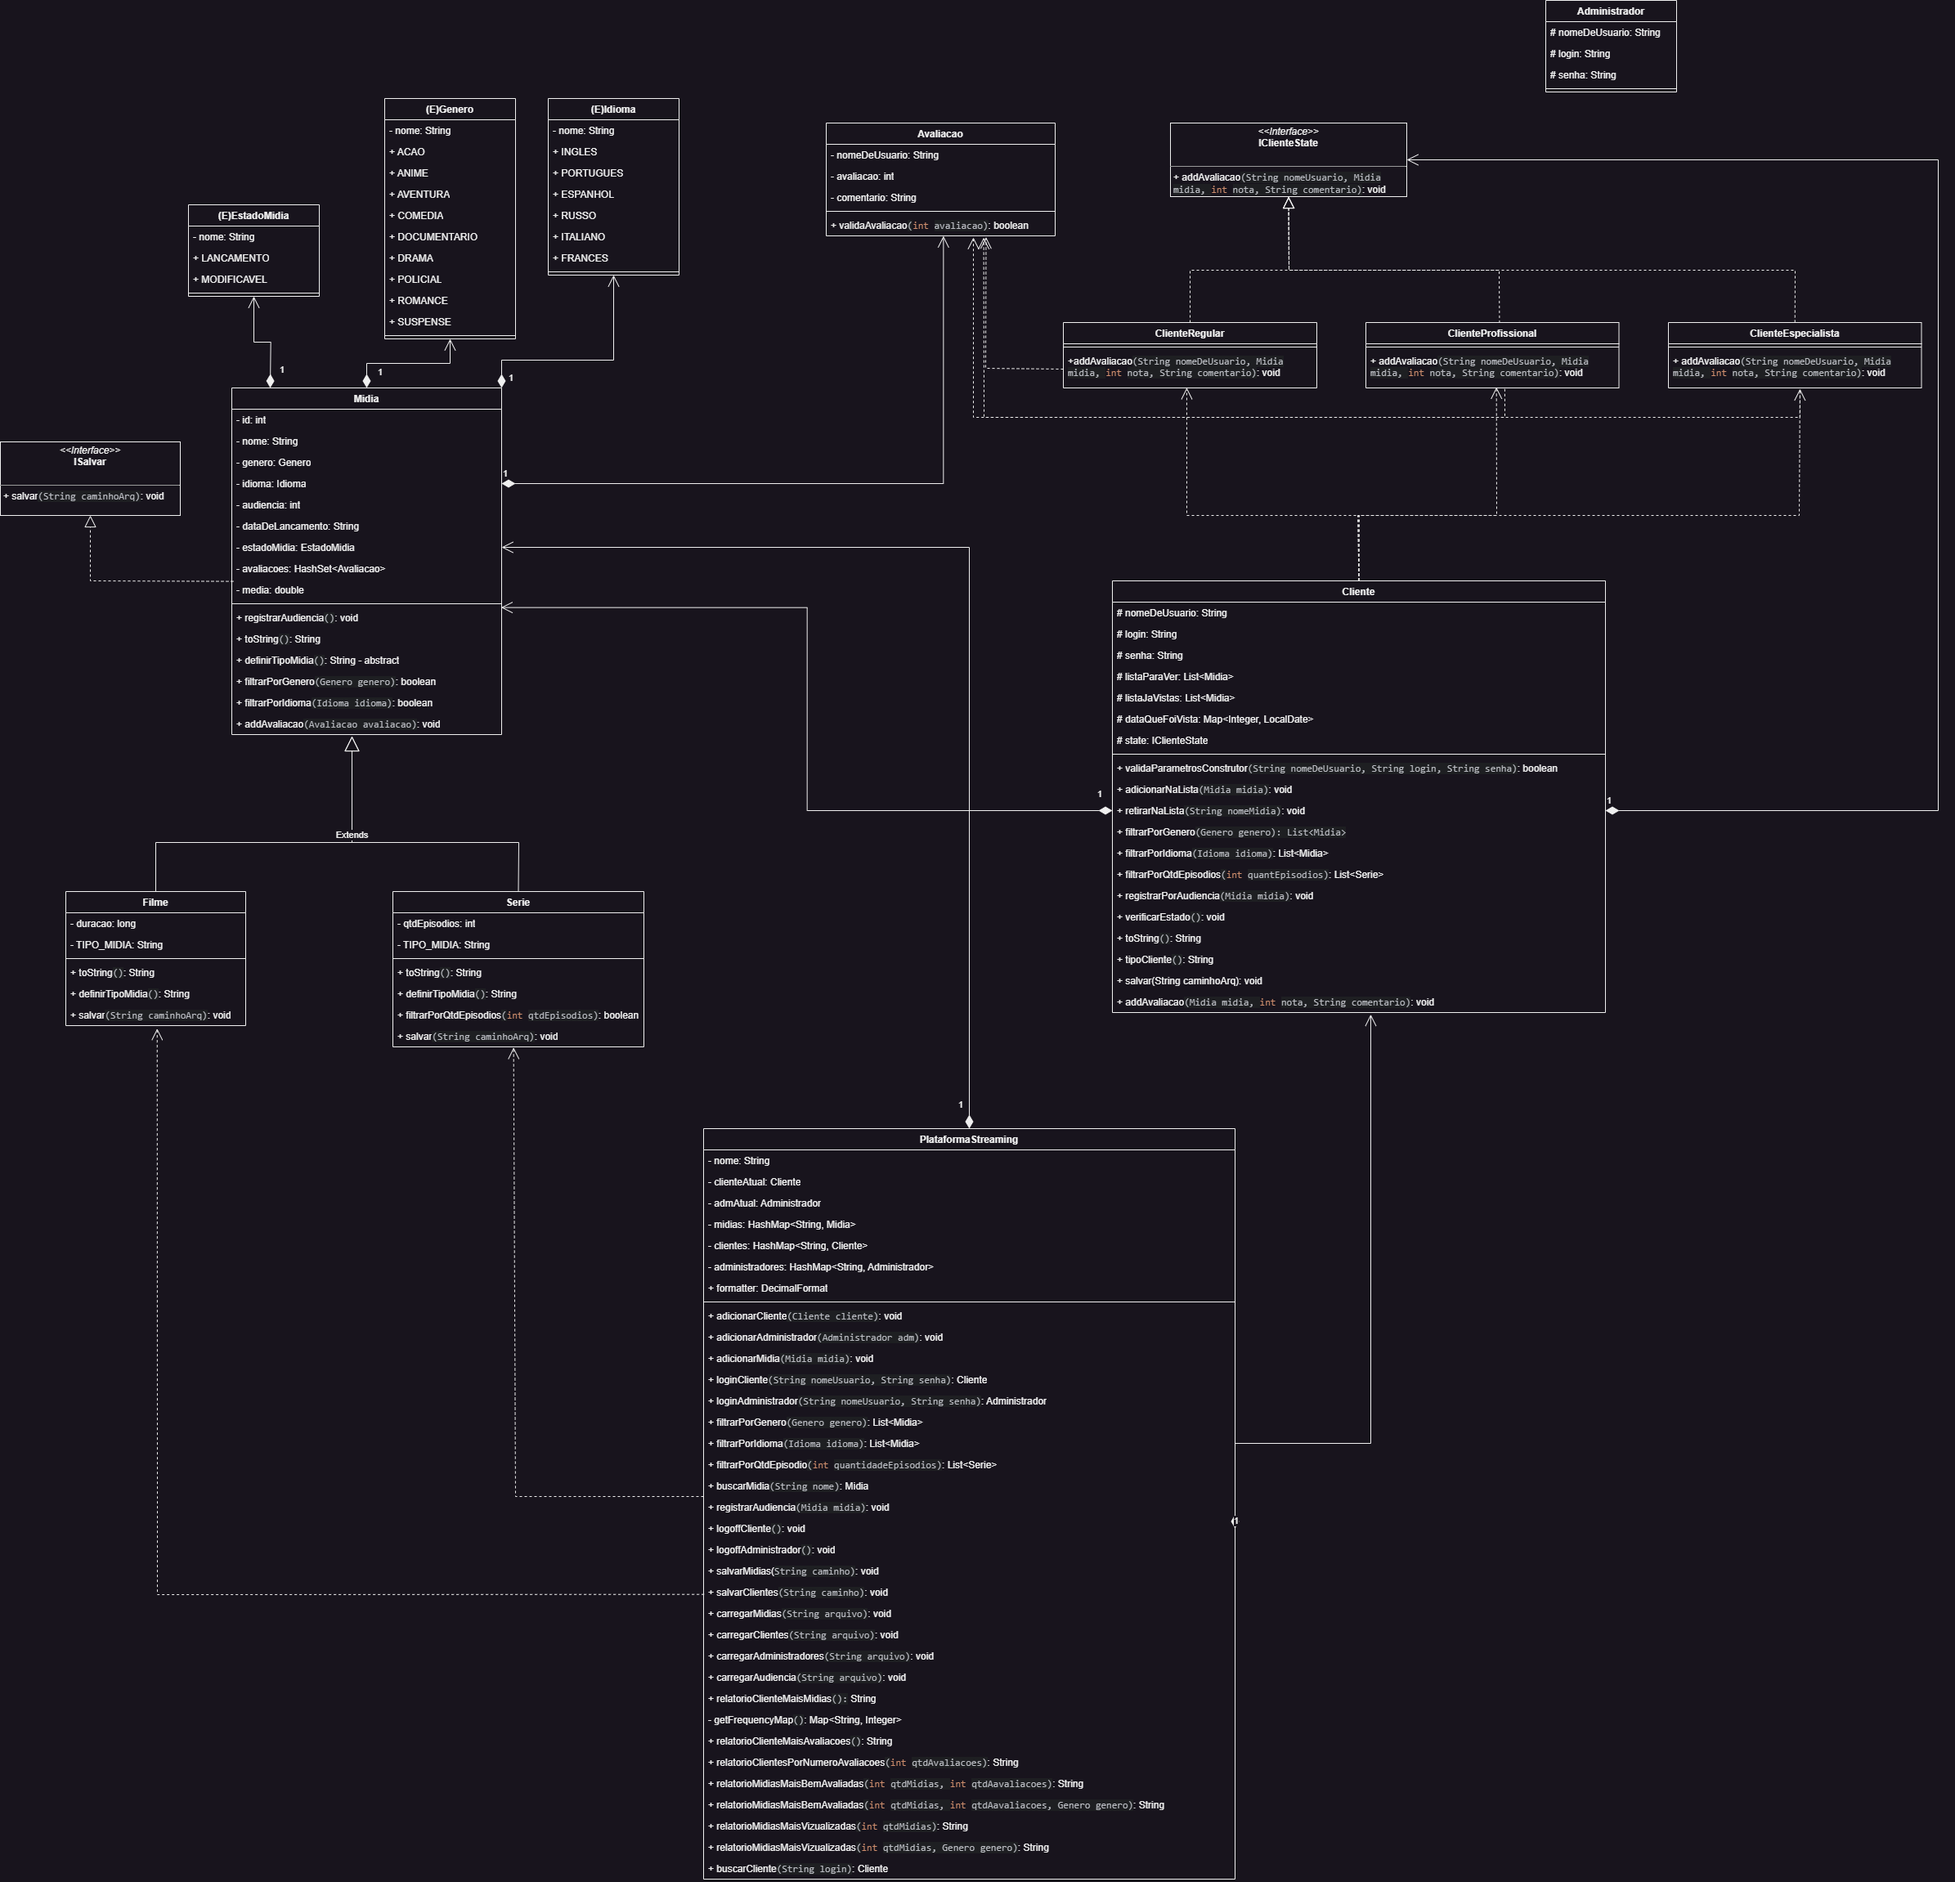
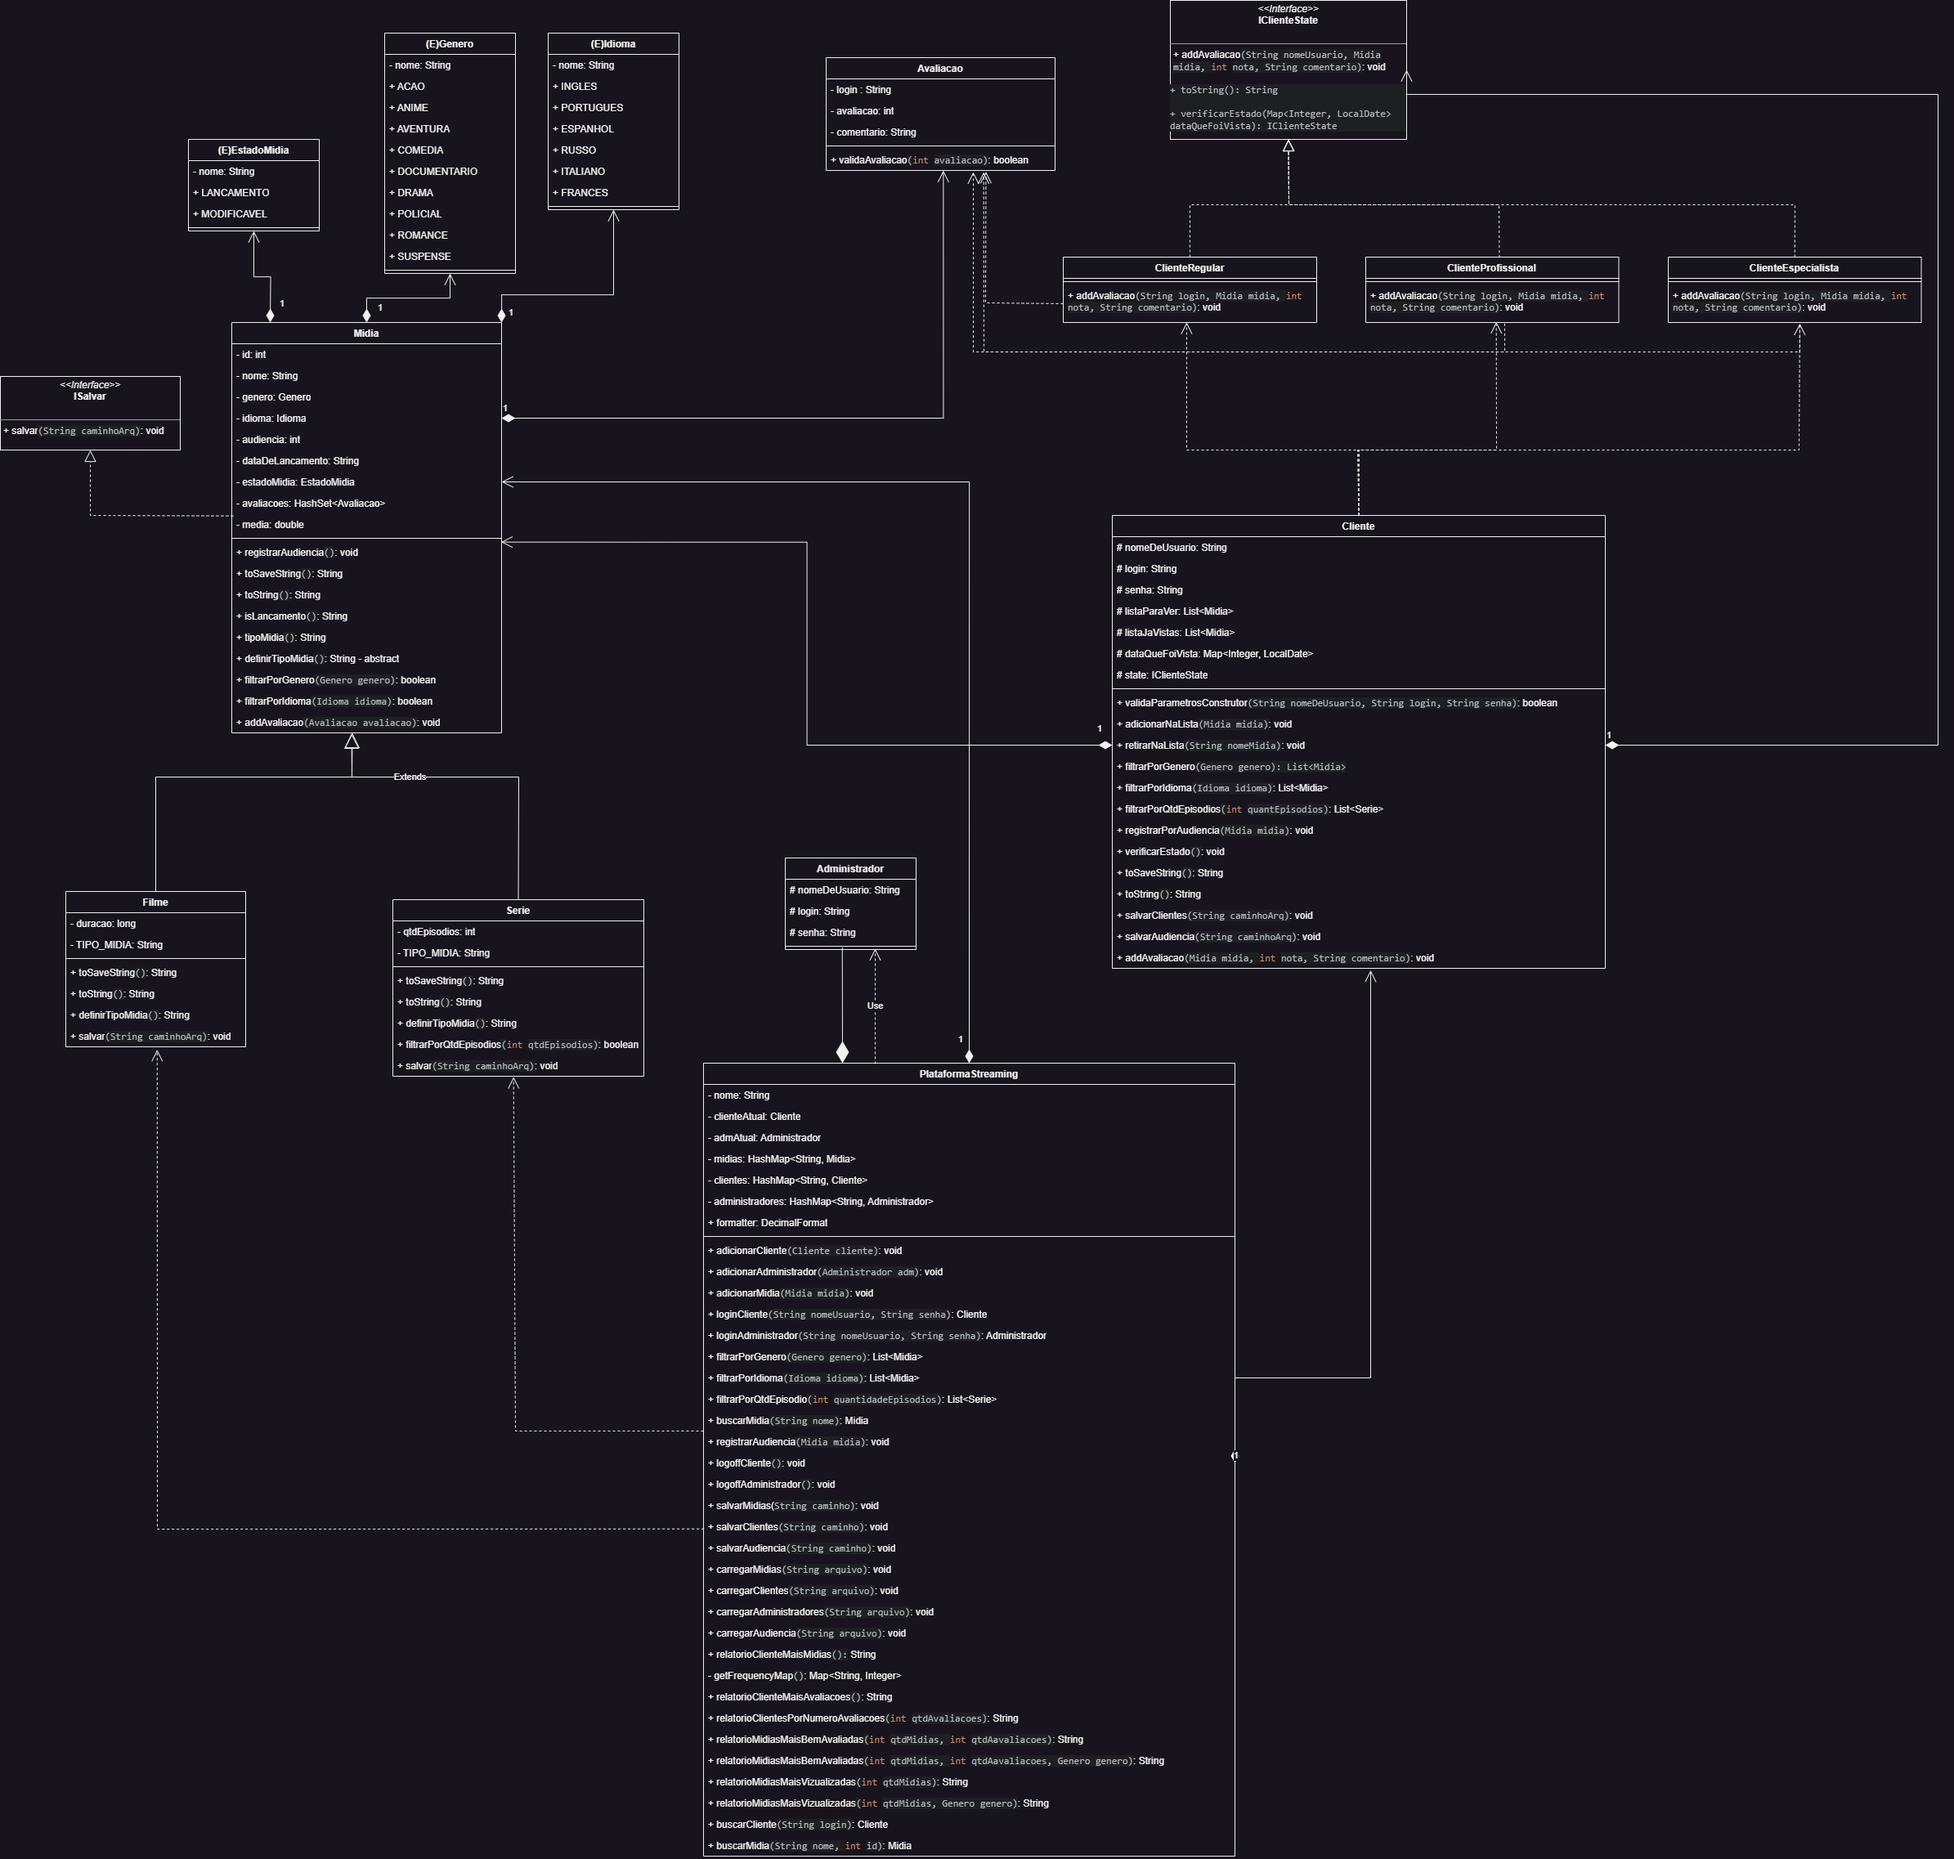
retorno cliente estados a forma anterior.

diff --git a/codigo/app/Cliente.java b/codigo/app/Cliente.java
@@ -113,6 +113,24 @@ public class Cliente {
         }
         return listaFiltrada;
     }
+    /**
+     * Verifica se é um cliente especialista
+     * Caso tenha assistido 5 ou mais midias mes passado, retornara true
+     * sempre verifica o estado do cliente caso tenha se tornado especialista.
+     */
+    public void verificarEstado() {
+        // Pega a data atual e subtrai um mês para obter a data de um mês atrás
+        LocalDate umMesAtras = LocalDate.now().minusMonths(1);
+
+
+        long totalMidiasUltimoMes = dataQueFoiVista.values().stream()
+                .filter(date -> date.getYear() == umMesAtras.getYear() && date.getMonthValue() == umMesAtras.getMonthValue())
+                .count();
+
+        if (!(this.state instanceof ClienteProfissional) && totalMidiasUltimoMes < 5 && (this.state instanceof ClienteEspecialista)) {
+            this.state = new ClienteEspecialista();
+        }
+    }
 
     /**
      * Filtra midias por idioma
@@ -207,7 +225,7 @@ public class Cliente {
                     this.dataQueFoiVista.put(midia.getId(), LocalDate.now());
                 } else throw new Exception("Mídia já assistida!");
 
-                state = state.verificarEstado(dataQueFoiVista);
+                this.verificarEstado();
 
             } catch (Exception e) {
                 System.out.println(e.toString());
@@ -220,26 +238,17 @@ public class Cliente {
     }
 
 
-    /**
-     * toString para salvar no arquivo
-     * @return
-     */
     public String toSaveString() {
         StringBuilder aux = new StringBuilder((this.nomeDeUsuario + ";" + this.login + ";" + this.senha + ";" + state.toString()));
         return aux.toString();
     }
 
-    /**
-     * toString para mostrar ao usuario (formatado)
-     * @return
-     */
     public String toString() {
         StringBuilder aux = new StringBuilder("Usuário " + state.toString() + " - Nome de usuário: " + this.nomeDeUsuario + " Login: " + this.login + " - Senha:" + this.senha);
         return aux.toString();
     }
 
     /**
-     * salva os clientes no arquivo
      * @param caminhoArq
      */
     public void salvarClientes(String caminhoArq) {
@@ -257,7 +266,6 @@ public class Cliente {
     }
 
     /**
-     * salva audiencia no arquivo
      * @param caminhoArq
      */
     public void salvarAudiencia(String caminhoArq) {
@@ -318,13 +326,12 @@ public class Cliente {
      * @param comentario
      */
     public void addAvaliacao(Midia midia, int nota, String comentario) throws Exception {
-
+        this.verificarEstado();
         try {
             int index = listaJaVistas.indexOf(midia);
             try {
                 if (index != -1) {
                     state.addAvaliacao(this.login, midia, nota, comentario);
-                    state = state.verificarEstado(dataQueFoiVista);
                 } else throw new Exception("Não foi possível avaliar pois a mídia não foi assistida!");
             } catch (Exception e) {
                 System.out.println(e.toString());

diff --git a/codigo/app/ClienteProfissional.java b/codigo/app/ClienteProfissional.java
@@ -26,20 +26,6 @@ public class ClienteProfissional implements IClienteState {
         return "Profissional";
     }
 
-    @Override
-    public IClienteState verificarEstado(Map<Integer, LocalDate> dataQueFoiVista) {
-        // Pega a data atual e subtrai um mês para obter a data de um mês atrás
-        LocalDate umMesAtras = LocalDate.now().minusMonths(1);
 
-
-        long totalMidiasUltimoMes = dataQueFoiVista.values().stream()
-                .filter(date -> date.getYear() == umMesAtras.getYear() && date.getMonthValue() == umMesAtras.getMonthValue())
-                .count();
-
-//        if (!(this.state instanceof ClienteProfissional) && totalMidiasUltimoMes < 5 && (this.state instanceof ClienteEspecialista)) {
-//            this.state = new ClienteEspecialista();
-//        }
-        return null;
-    }
 
 }

diff --git a/codigo/app/ClienteRegular.java b/codigo/app/ClienteRegular.java
@@ -31,19 +31,4 @@ public class ClienteRegular implements IClienteState {
         return "Regular";
     }
 
-    @Override
-    public IClienteState verificarEstado(Map<Integer, LocalDate> dataQueFoiVista) {
-        // Pega a data atual e subtrai um mês para obter a data de um mês atrás
-        LocalDate umMesAtras = LocalDate.now().minusMonths(1);
-
-
-        long totalMidiasUltimoMes = dataQueFoiVista.values().stream()
-                .filter(date -> date.getYear() == umMesAtras.getYear() && date.getMonthValue() == umMesAtras.getMonthValue())
-                .count();
-
-//        if (!(this.state instanceof ClienteProfissional) && totalMidiasUltimoMes < 5 && (this.state instanceof ClienteEspecialista)) {
-//            this.state = new ClienteEspecialista();
-//        }
-        return null;
-    }
 }

diff --git a/codigo/app/ClienteEspecialista.java b/codigo/app/ClienteEspecialista.java
@@ -32,19 +32,4 @@ public class ClienteEspecialista implements IClienteState {
     }
 
 
-    @Override
-    public IClienteState verificarEstado(Map<Integer, LocalDate> dataQueFoiVista) {
-        // Pega a data atual e subtrai um mês para obter a data de um mês atrás
-        LocalDate umMesAtras = LocalDate.now().minusMonths(1);
-
-
-        long totalMidiasUltimoMes = dataQueFoiVista.values().stream()
-                .filter(date -> date.getYear() == umMesAtras.getYear() && date.getMonthValue() == umMesAtras.getMonthValue())
-                .count();
-
-//        if (!(this.state instanceof ClienteProfissional) && totalMidiasUltimoMes < 5 && (this.state instanceof ClienteEspecialista)) {
-//            this.state = new ClienteEspecialista();
-//        }
-        return null;
-    }
 }

diff --git a/codigo/app/IClienteState.java b/codigo/app/IClienteState.java
@@ -12,11 +12,4 @@ public interface IClienteState {
      */
     void addAvaliacao(String nomeUsuario, Midia midia, int nota, String comentario)throws Exception;
     String toString();
-
-    /**
-     * Verifica se é um cliente especialista
-     * Caso tenha assistido 5 ou mais midias mes passado, retornara true
-     * sempre verifica o estado do cliente caso tenha se tornado especialista.
-     */
-    IClienteState verificarEstado(Map<Integer, LocalDate> dataQueFoiVista);
 }
